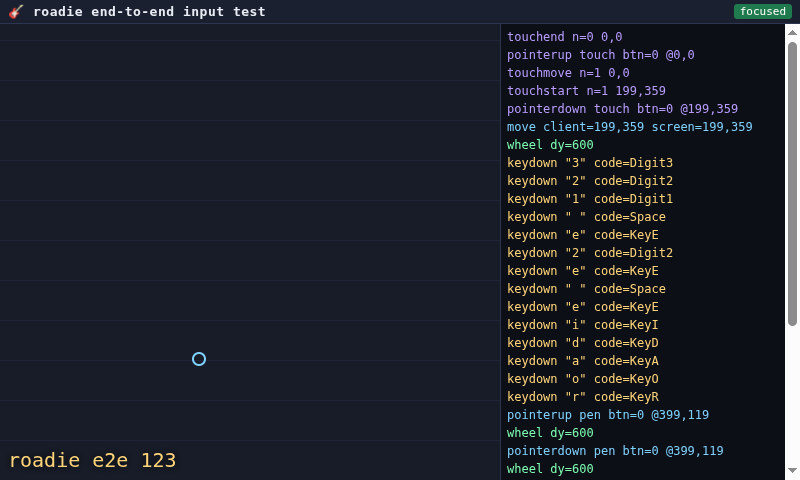
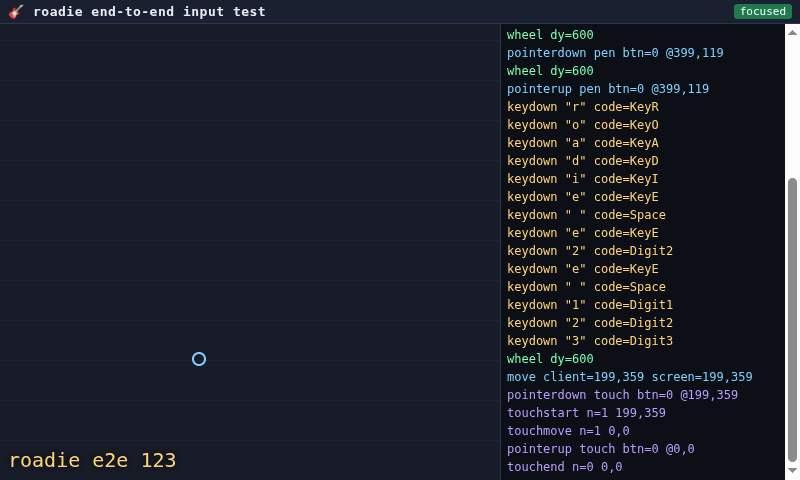
Show the event log oldest first
It prepended, so a typed string read reversed.

Changed region(s): [[0.625, 0.0625, 0.9375, 1.0], [0.9688, 0.6562, 1.0, 0.9688], [0.9688, 0.0938, 1.0, 0.375]]

diff --git a/board/e2e/page.html b/board/e2e/page.html
@@ -81,8 +81,11 @@ function paint(cls, text) {
   const d = document.createElement('div');
   d.className = cls;
   d.textContent = text;
-  logEl.prepend(d);
-  while (logEl.childNodes.length > 60) logEl.lastChild.remove();
+  // Chronological, newest last: prepending read backwards, so a typed
+  // string appeared in reverse down the column.
+  logEl.append(d);
+  while (logEl.childNodes.length > 60) logEl.firstChild.remove();
+  logEl.scrollTop = logEl.scrollHeight;
 }
 
 // Every observation is posted straight to the harness. keepalive so a

diff --git a/docs/how-to/testing.md b/docs/how-to/testing.md
@@ -19,12 +19,14 @@ None of them need a monitor: `make test-hid` uses no display at all, and
 
 ![The test page at the end of a run](../screenshots/e2e-test-page.png)
 
-That is the page at the end of a run: the cyan ring is where the pointer was
-left, `roadie e2e 123` is the text that arrived as real keystrokes, and the
-log on the right is every event the page received — `touchstart` at
-`199,359`, `wheel dy=600`, a `keydown` per character, and `pen` pointer
-events (Chromium reports the absolute-positioning HID device as a pen rather
-than a mouse).
+That is the page at the end of a run. The cyan ring is where the pointer was
+left, and `roadie e2e 123` is text that arrived as real keystrokes. The log
+on the right is every event the page received, oldest first — you can read
+the typed string straight down it, a `keydown` per character, then the touch:
+`pointerdown`, `touchstart` at `199,359`, `touchend`.
+
+The pointer events say `pen` because Chromium classifies the board's
+absolute-positioning device as a stylus rather than a mouse.
 
 `make test-e2e-pi` stands up two small servers and a browser:
 
